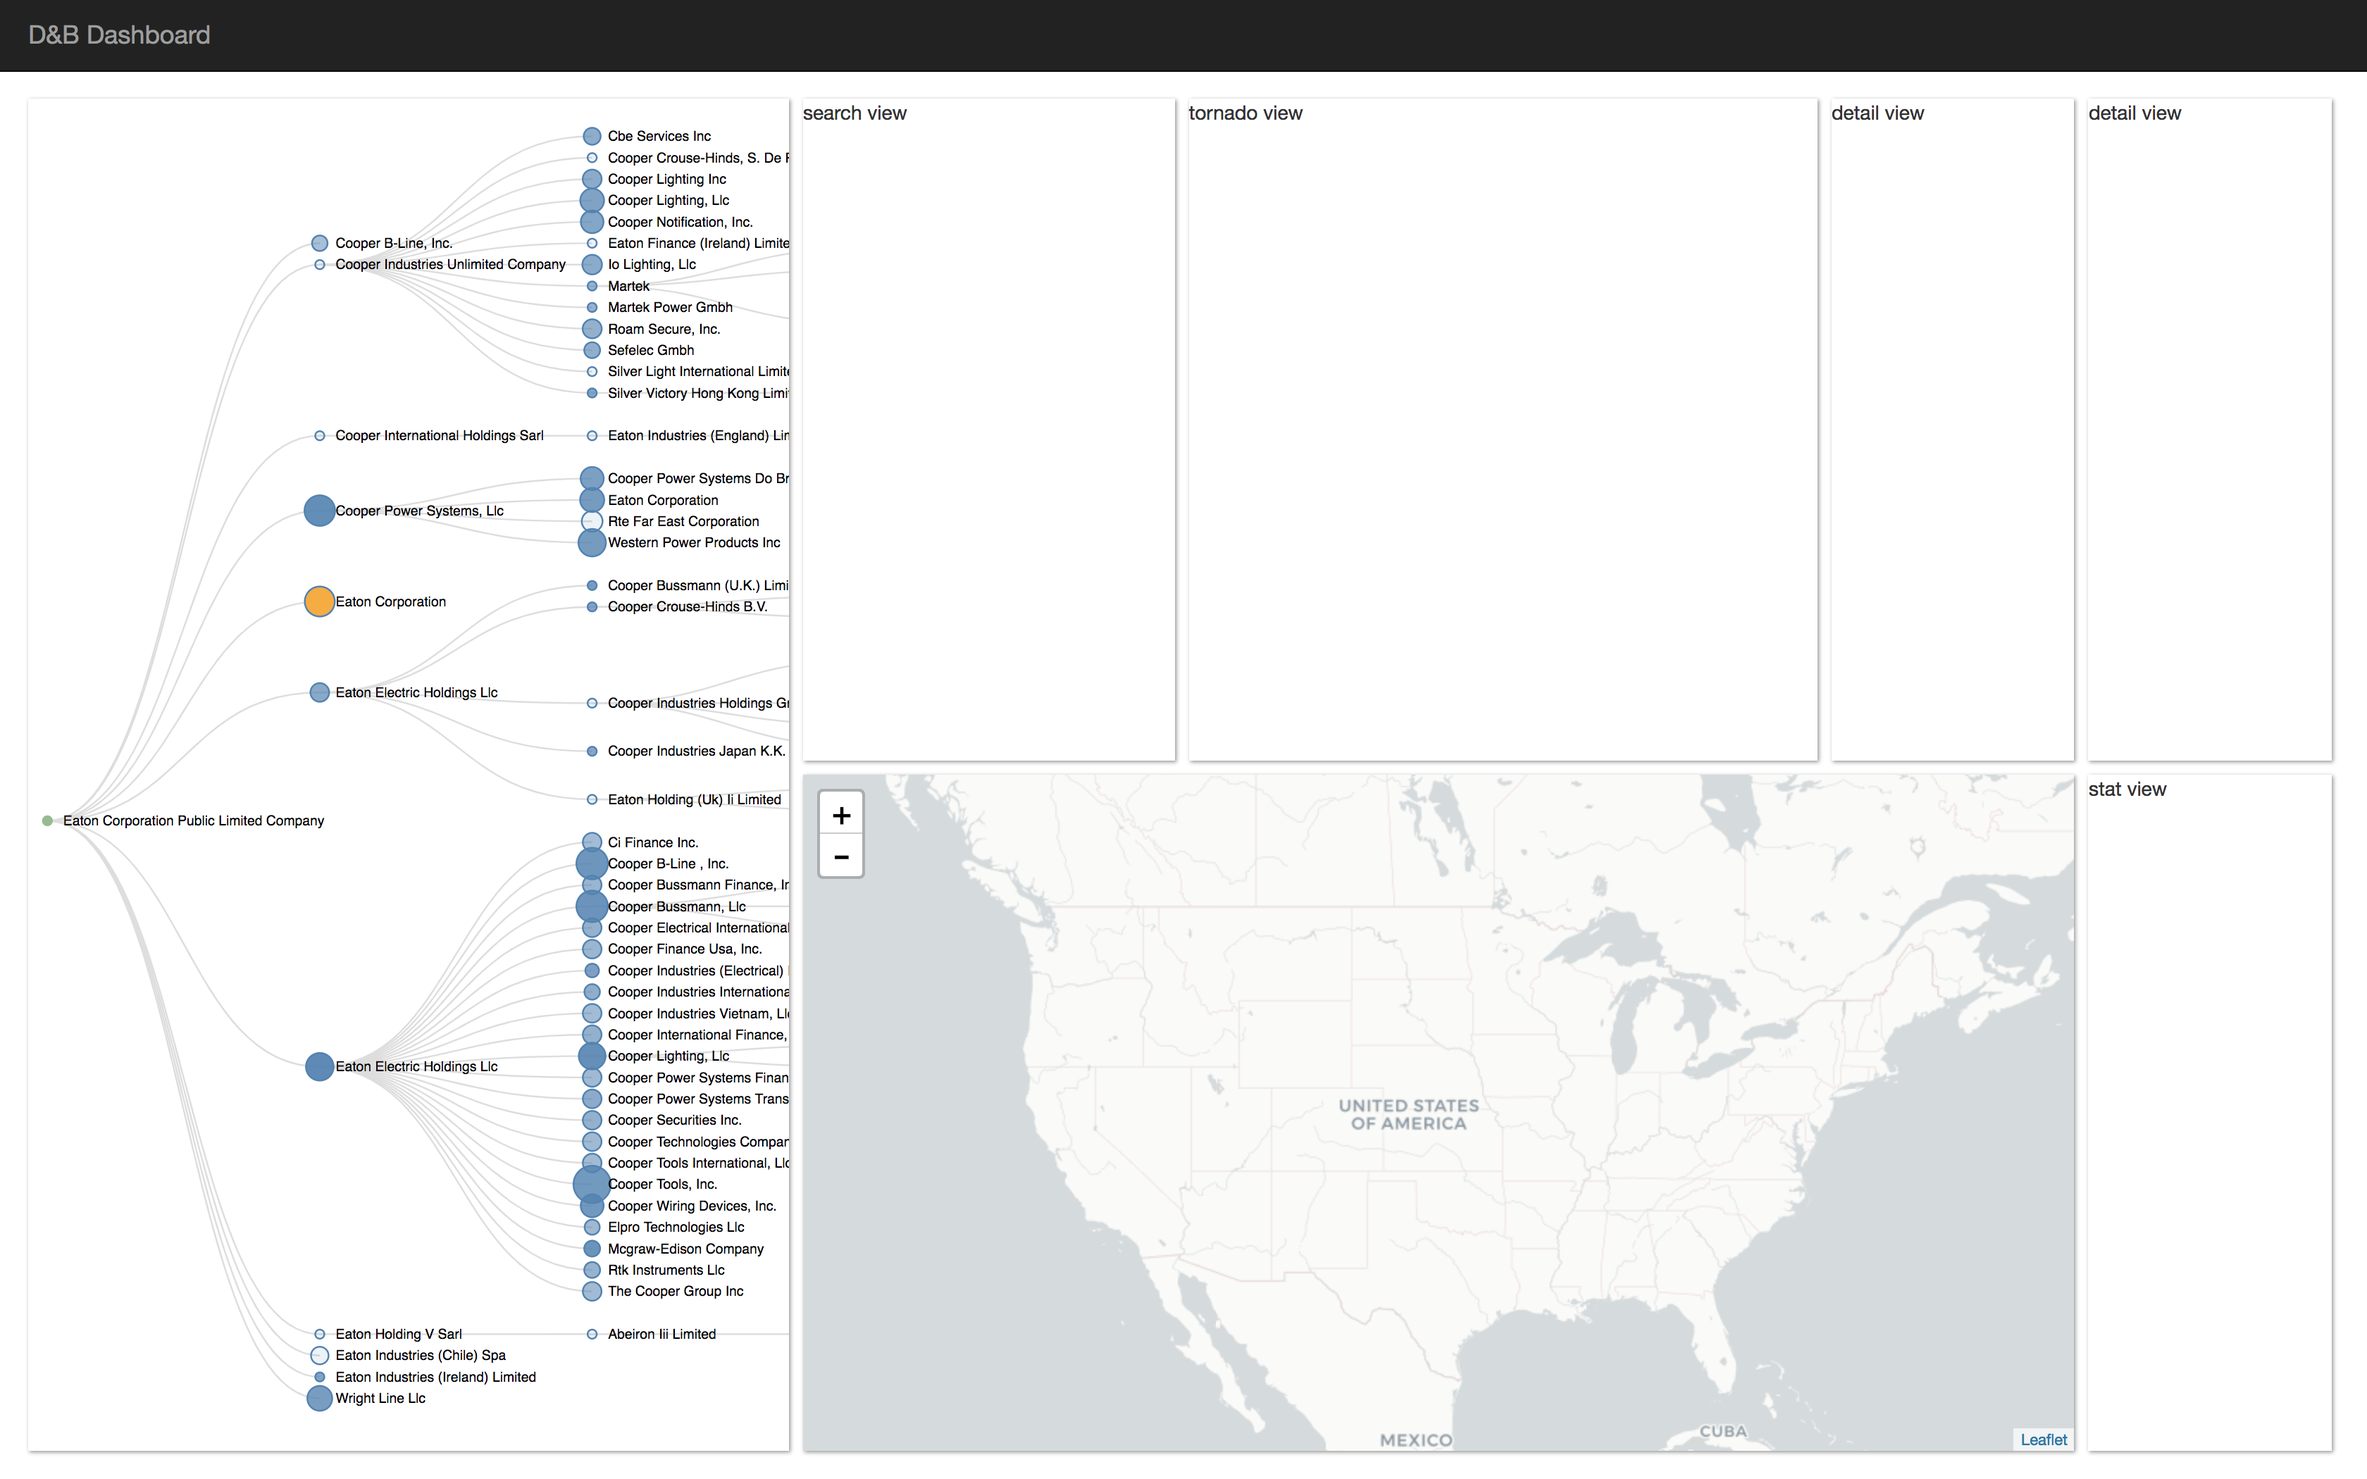
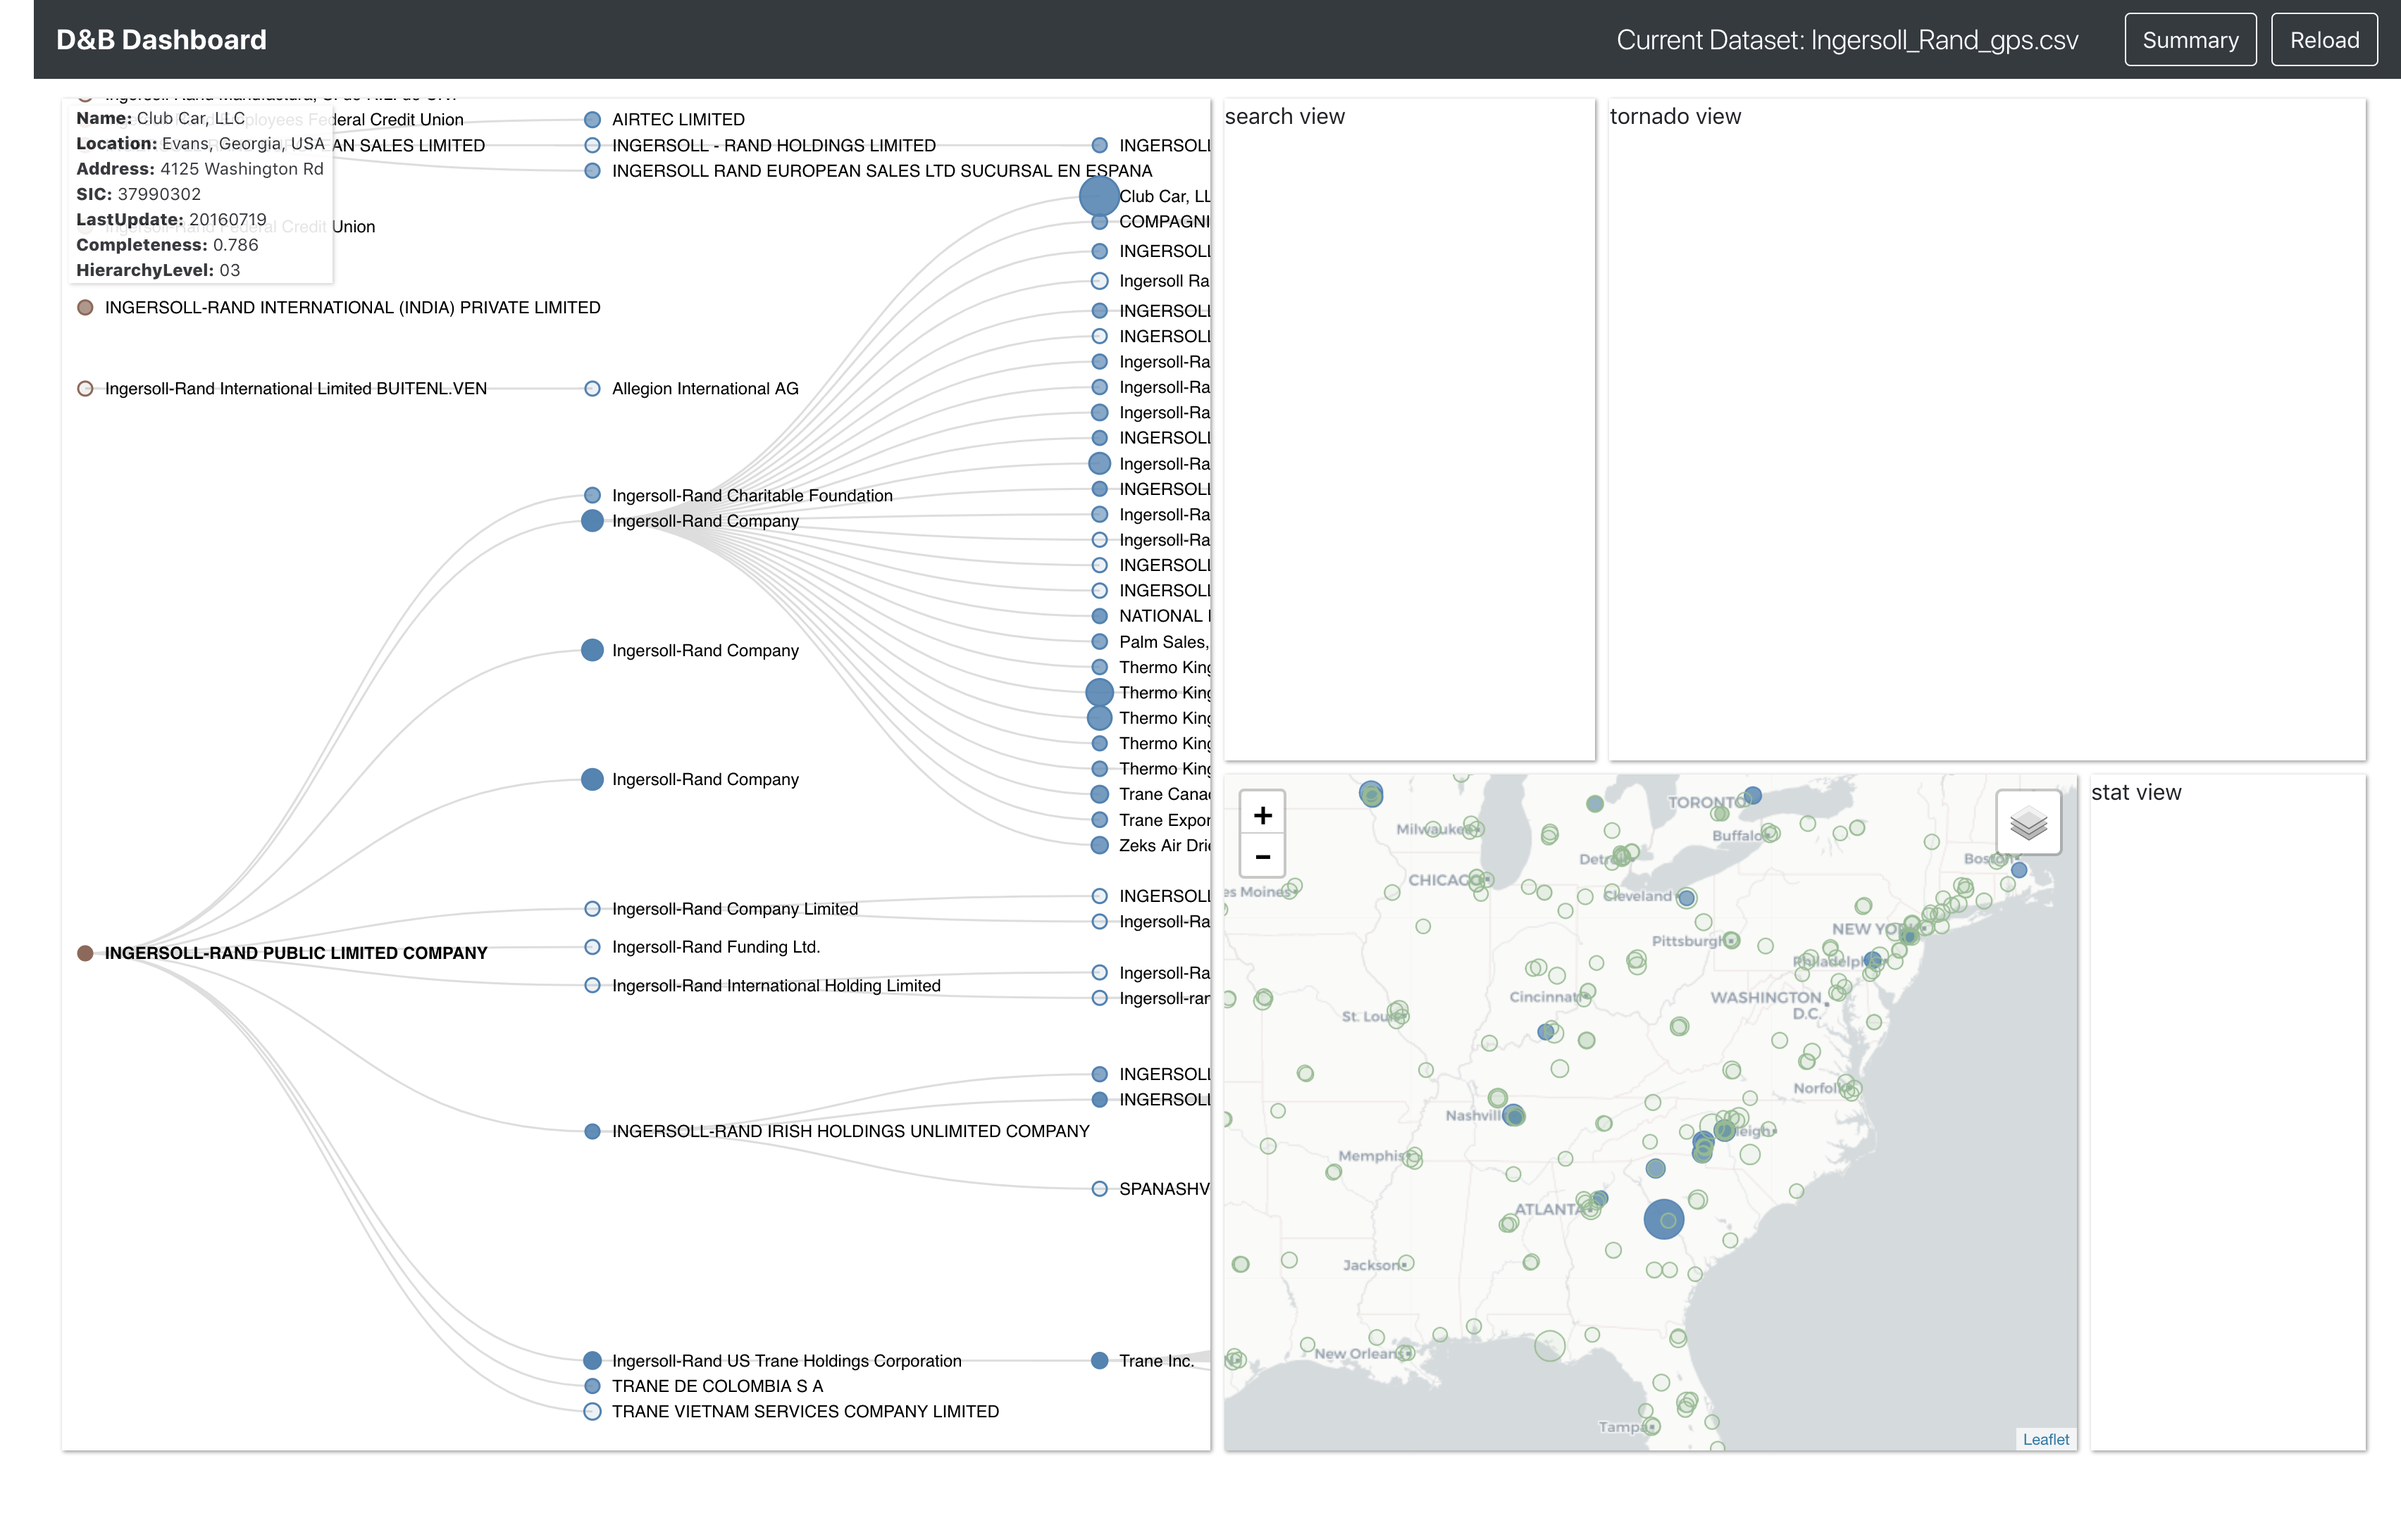
init tornado page

diff --git a/static/scripts/hierarchy_view.js b/static/scripts/hierarchy_view.js
@@ -2,7 +2,7 @@
 /* implemented based on Rob Schmuecker's DNDTree Demo */
 
 // global variables for hierarchy view
-var maxLabelLength, maxValue, duration, root, idNodeDict;
+var maxLabelLength, maxValue, duration, idNodeDict;
 var diagonal, treeLayout;
 var zoomListener, baseSvg, svgGroup;
 
@@ -247,7 +247,8 @@ var center_node = function (source) {
     var scale = zoomListener.scale();
     var x = -source.y0;
     var y = -source.x0;
-    x = x * scale + baseSvg.attr("width") / 2;
+    // x = x * scale + baseSvg.attr("width") / 2;
+    x = x * scale + 20;
     y = y * scale + baseSvg.attr("height") / 2;
     d3.select('g').transition()
         .duration(duration)
@@ -281,11 +282,12 @@ var _mouseover = function (d) {
     $("#hierarchy-info-lastUpdate").html(d.lastUpdate);
     $("#hierarchy-info-completeness").html(d.Completeness);
     $("#hierarchy-info-hierarchy").html(d.level);
+    $("#hierarchy-info-revenue").html(d.revenue);
     $("#hierarchy-info").css("display", "unset");
 }
 
 var _mouseout = function (d) {
-    $("#hierarchy-info").css("display", "none");
+    // $("#hierarchy-info").css("display", "none");
 }
 
 // Toggle children on click.

diff --git a/templates/dashboard.html b/templates/dashboard.html
@@ -45,6 +45,7 @@
 						<div><span class="info-header">LastUpdate:</span>	<span id="hierarchy-info-lastUpdate"></span></div>
 						<div><span class="info-header">Completeness:</span>	<span id="hierarchy-info-completeness"></span></div>
 						<div><span class="info-header">HierarchyLevel:</span> <span id="hierarchy-info-hierarchy"></span></div>
+						<div><span class="info-header">Revenue:</span> <span id="hierarchy-info-revenue"></span></div>
 					</div>
 				</div>
 			</div>

diff --git a/static/scripts/index.js b/static/scripts/index.js
@@ -1,5 +1,17 @@
 'use strict';
 
+/********************
+ * Global Variables *
+ ********************/
+// hierarchy view's root dataset
+var root;
+
 init_hierarchy_view();
 init_map_view();
 init_summary_view();
+
+$(window).resize(function () { // additional listener for size-responsiblility of certain views
+	// update hierarchy view
+    update_hierarchy_view(root);
+});
+

diff --git a/static/css/main.css b/static/css/main.css
@@ -105,7 +105,6 @@ body {
     box-shadow: 1px 1px 3px #ccc;
     font-size: 12px;
     display: none;
-    cursor: none;
 }
 
 .info-header {

diff --git a/static/scripts/tornado_view.js b/static/scripts/tornado_view.js
@@ -1,0 +1,1 @@
+'use strict';

diff --git a/Utils/EntityModel.py b/Utils/EntityModel.py
@@ -8,6 +8,7 @@ from geopy.geocoders import DataBC
 from pprint import pprint
 
 import json
+import math
 
 
 class EntityModel():
@@ -30,13 +31,17 @@ class EntityModel():
 
         self.company_df = pd.read_csv(file, dtype=str)
         self.company_df.fillna("", inplace=True)
+        print("shape:", self.company_df.shape)
         size_quantiles = self.company_df['EMPLOYEES_HERE'].astype(int).quantile(np.linspace(0.1,1,10)).values
 
         def _get_quantile(employee_num):
             return np.argmax((size_quantiles - int(employee_num)) > 0) + 1
 
         max_employees_here = self.company_df['EMPLOYEES_HERE'].astype(float).max()
-        self.company_df['size'] = self.company_df['EMPLOYEES_HERE'].apply(lambda x:(float(x)/max_employees_here)*9+5) # scale number of employee to size 1-10
+        # self.company_df['size'] = self.company_df['EMPLOYEES_HERE'].apply(lambda x:(float(x)/max_employees_here)*9+5) # scale number of employee to size 1-10
+        self.company_df['size'] = self.company_df['EMPLOYEES_HERE'].apply(lambda x:math.sqrt(math.sqrt(float(x))) * 1.5 + 3) # scale number of employee to size
+
+
 
         self.max_level = 0
         self.global_ultimates, self.roots, self.feature_included, self.entity_dict = \
@@ -63,7 +68,7 @@ class EntityModel():
 		'''
         global_ultimates = {}
         roots = set()
-        feature_included = {'id', 'name', 'size', 'sizeTotal', 'revenue', 'lastUpdate', 'revenue', 'address', 'LOB',
+        feature_included = {'id', 'name', 'size', 'sizeTotal', 'empNum', 'revenue', 'lastUpdate', 'address', 'LOB',
                             'latitude', 'longitude', 'type', 'Completeness', 'SIC', 'location', 'level'}
         entity_dict = {}
         # geolocator = DataBC()
@@ -74,8 +79,8 @@ class EntityModel():
             entity_dict[cur_id]['id'] = cur_id
             entity_dict[cur_id]['name'] = row["CASE_NAME"]
             entity_dict[cur_id]['size'] = row["size"]
+            entity_dict[cur_id]['empNum'] = row["EMPLOYEES_HERE"]
             entity_dict[cur_id]['sizeTotal'] = row["EMPLOYEES_TOTAL"]
-            entity_dict[cur_id]['revenue'] = row["SALES_US"]
             entity_dict[cur_id]['lastUpdate'] = row["REPORT_DATE"]
             entity_dict[cur_id]['revenue'] = row["SALES_US"]
             entity_dict[cur_id]['address'] = row["CASE_ADDRESS1"]
@@ -244,10 +249,9 @@ class EntityModel():
                         # add parent relation with the virtual node
                         family_dict[cur_entity]["parent"] = cur_parent
                         family_dict[cur_parent]["children"].add(cur_entity)
+                        # currently, no matter whether domestic can be used as parent or not, label this node as "parent-not-in-dataset entity"
+                        no_parent_set.add(cur_entity)
 
-                    # currently, no matter whether domestic can be used as parent or not, label this node as "parent-not-in-dataset entity"
-                    no_parent_set.add(cur_entity)
-                    family_dict[cur_entity]["parent"] = cur_parent
             # normal entity. update the entity's parent info and the entity's parent's children info
             else:
                 family_dict[cur_entity]["parent"] = cur_parent
@@ -338,13 +342,13 @@ class EntityModel():
             missing_parents.add(self.entity_dict[tmp_root]["parent"])
 
         if self.verbose:
-            print("{:55s} | {:6s} | {:6s} | {:6s} | {:10s} | {}".format(
-                "ENTITY_NAME", "STATUS", "SUBSID", "HIERAC", "TYPE", "CHILDREN_NUM"
+            print("{:55s} | {:6s} | {:10s} | {}".format(
+                "ENTITY_NAME", "HIERAC", "TYPE", "CHILDREN_NUM"
             ))
 
             for info in sorted(no_parent_info, key=lambda row: row[1]):
-                print("{:55s} | {:6s} | {:6s} | {:6s} | {:10s} | {:4s}".format(
-                    info[0], info[1], info[2], info[3], info[4], info[5]
+                print("{:55s} | {:6s} | {:10s} | {:4s}".format(
+                    info[0], info[1], info[2], info[3]
                 ))
 
         return no_parent_tree_size, missing_parents
@@ -453,6 +457,8 @@ class EntityModel():
         siblings['distance'] = siblings.apply(_cal_dist, axis=1)
         nearest_10_siblings = siblings.sort_values('distance')[:max_num]
 
+        print(nearest_10_siblings[["CASE_DUNS", "CASE_NAME", "SALES_US"]])
+
         # change from df to dict
         _, _, _, nearest_10_siblings = self._get_entity_dict(nearest_10_siblings)
 
@@ -460,18 +466,23 @@ class EntityModel():
 
 if __name__ == '__main__':
     company_set = ['United_Technologies', 'Ingersoll_Rand', 'Eaton', 'Daikin', 'Captive_Aire']
-    company_name = "Ingersoll_Rand_gps"
+    company_name = "Eaton_gps"
     company_file = open("../dataset/ori_data/" + company_name + ".csv", "r")
     entity_model = EntityModel(verbose=False)
     entity_model.upload(company_file)
-    message = {
-        "count_dict": entity_model.get_data_stats(verbose=True),
-        "pnid_list": entity_model.get_pnid_list(),
-        "global_ultimate_list": entity_model.get_global_ultimates(),
-        "metadata_list": entity_model.get_metadata()
-        # "filename": cur_file_name
-    }
-    pprint(json.dumps(message))
+    # entity_model.get_data_stats(verbose=True)
+
+
+    pprint(entity_model.find_siblings("00602755428", digits=2, max_num=40))
+
+    # message = {
+    #     "count_dict": entity_model.get_data_stats(verbose=True),
+    #     "pnid_list": entity_model.get_pnid_list(),
+    #     "global_ultimate_list": entity_model.get_global_ultimates(),
+    #     "metadata_list": entity_model.get_metadata()
+    #     # "filename": cur_file_name
+    # }
+    # pprint(json.dumps(message))
     # entity_model.get_json_tree(ignore_branches=False)
     # print(entity_model.find_siblings('00989222823'))
     # entity_model.get_data_stats(ignore_branches=False)
